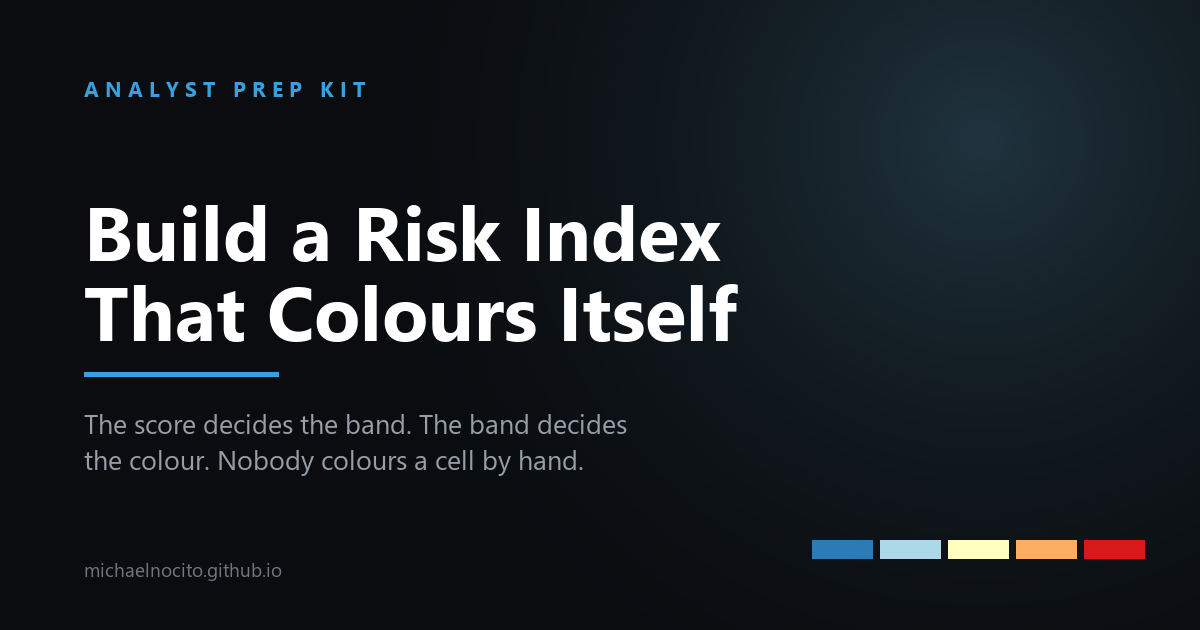
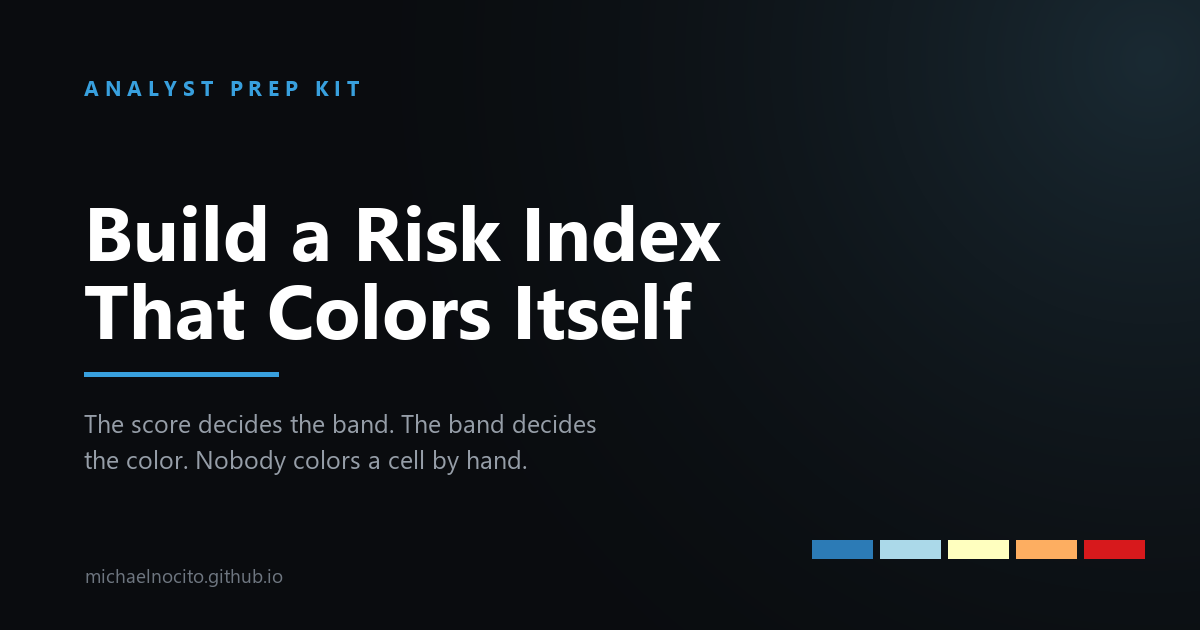
Spell color the American way in the risk index guide
The guide, its card on the guides index, and the social image all used the
British spelling. Fixed everywhere except the Harrower and Brewer citation,
where the published title keeps its own spelling.

Adds tools/make-social-card.py so the 1200x630 card can be rebuilt instead of
hand-edited.

diff --git a/guides/build-a-risk-index/index.html b/guides/build-a-risk-index/index.html
@@ -11,11 +11,11 @@
 </script>
 <meta charset="utf-8">
 <meta name="viewport" content="width=device-width, initial-scale=1">
-<title>Build a Risk Index That Colours Itself — Analyst Prep Kit</title>
-<meta name="description" content="Scored spreadsheets drift because the rule lives in the formatting instead of in a column. Beginner guide to building a composite index in Excel where the score decides the band, the band decides the colour, and one edit updates the whole workbook. Free template included.">
+<title>Build a Risk Index That Colors Itself — Analyst Prep Kit</title>
+<meta name="description" content="Scored spreadsheets drift because the rule lives in the formatting instead of in a column. Beginner guide to building a composite index in Excel where the score decides the band, the band decides the color, and one edit updates the whole workbook. Free template included.">
 <link rel="canonical" href="https://michaelnocito.github.io/analyst-prep-kit/guides/build-a-risk-index/">
-<meta property="og:title" content="Build a Risk Index That Colours Itself">
-<meta property="og:description" content="Two rows with the same score, two different colours. The fix is to move the rule out of the formatting and into a column.">
+<meta property="og:title" content="Build a Risk Index That Colors Itself">
+<meta property="og:description" content="Two rows with the same score, two different colors. The fix is to move the rule out of the formatting and into a column.">
 <meta property="og:type" content="article">
 <meta property="og:image" content="https://michaelnocito.github.io/analyst-prep-kit/assets/social/build-a-risk-index.png">
 <meta property="og:url" content="https://michaelnocito.github.io/analyst-prep-kit/guides/build-a-risk-index/">
@@ -59,8 +59,8 @@
 {
   "@context": "https://schema.org",
   "@type": "Article",
-  "headline": "Build a Risk Index That Colours Itself",
-  "description": "Scored spreadsheets drift because the rule lives in the formatting instead of in a column. Beginner guide to building a composite index in Excel where the score decides the band, the band decides the colour, and one edit updates the whole workbook.",
+  "headline": "Build a Risk Index That Colors Itself",
+  "description": "Scored spreadsheets drift because the rule lives in the formatting instead of in a column. Beginner guide to building a composite index in Excel where the score decides the band, the band decides the color, and one edit updates the whole workbook.",
   "url": "https://michaelnocito.github.io/analyst-prep-kit/guides/build-a-risk-index/",
   "mainEntityOfPage": {
     "@type": "WebPage",
@@ -101,7 +101,7 @@
     {
       "@type": "ListItem",
       "position": 3,
-      "name": "Build a Risk Index That Colours Itself",
+      "name": "Build a Risk Index That Colors Itself",
       "item": "https://michaelnocito.github.io/analyst-prep-kit/guides/build-a-risk-index/"
     }
   ]
@@ -112,52 +112,52 @@
 <body>
 <main>
   <p class="crumb"><a href="../../">← All Kits</a> · <a href="../data-driven-thresholds/">Data-Driven Thresholds</a> · <a href="../defining-metrics/">Defining Metrics</a></p>
-  <h1>Build a Risk Index That Colours Itself</h1>
-  <p class="meta">Because two rows with the same score should never be two different colours · Part of the <a href="../../">Analyst Prep Kit</a></p>
+  <h1>Build a Risk Index That Colors Itself</h1>
+  <p class="meta">Because two rows with the same score should never be two different colors · Part of the <a href="../../">Analyst Prep Kit</a></p>
 
-  <p>When this workbook is finished, you can change one number and watch the whole thing follow. Move a cut-off from 65 to 70 and every row re-bands, every fill recolours, every count updates, and the legend still matches the map. Nobody can colour a cell by hand, because no cell has a colour of its own. That is the whole trick, and it takes about twenty minutes to build.</p>
+  <p>When this workbook is finished, you can change one number and watch the whole thing follow. Move a cut-off from 65 to 70 and every row re-bands, every fill recolors, every count updates, and the legend still matches the map. Nobody can color a cell by hand, because no cell has a color of its own. That is the whole trick, and it takes about twenty minutes to build.</p>
 
-  <p>The example here is a security risk index across twenty sites. The same shape works for vendor scoring, lead scoring, incident triage, or any list where a number has to turn into a label and a colour.</p>
+  <p>The example here is a security risk index across twenty sites. The same shape works for vendor scoring, lead scoring, incident triage, or any list where a number has to turn into a label and a color.</p>
 
   <div class="toc">
     <strong>What's here</strong>
     <ol>
       <li>The fault, and where it actually comes from</li>
-      <li>The chain: score, then band, then colour</li>
+      <li>The chain: score, then band, then color</li>
       <li>Step 1: weights in one row</li>
       <li>Step 2: cut-offs in one table</li>
       <li>Step 3: look the band up, never type it</li>
-      <li>Step 4: let the colour follow the band</li>
+      <li>Step 4: let the color follow the band</li>
       <li>Step 5: two checks that catch the rest</li>
       <li>Step 6: the change log</li>
-      <li>Choosing the five colours</li>
+      <li>Choosing the five colors</li>
       <li>Download the workbook</li>
       <li>References</li>
     </ol>
   </div>
 
   <h2>The fault, and where it actually comes from</h2>
-  <p>You have met this file. A scored list, coloured by hand, that nobody quite trusts any more. Look closely and the same faults turn up every time:</p>
+  <p>You have met this file. A scored list, colored by hand, that nobody quite trusts any more. Look closely and the same faults turn up every time:</p>
   <ul>
     <li>Two rows score 61.4. One is amber, one is yellow.</li>
     <li>The same band is drawn in two shades, because two people picked from the palette on two different days.</li>
-    <li>A row sits below the cut-off and is coloured red anyway, because somebody knew that site was a problem.</li>
+    <li>A row sits below the cut-off and is colored red anyway, because somebody knew that site was a problem.</li>
     <li>A score lands exactly on 65, which appears in two bands, so the answer depends on who typed it.</li>
     <li>One row has no band at all. It quietly drops out of every count.</li>
   </ul>
-  <p>These look like five separate mistakes. They are one mistake, five times. <strong>The rule lives in the formatting instead of in a column.</strong> A colour is not a value you can test. You cannot write a formula that asks "is this row the right shade of amber," so nothing checks it, and it drifts.</p>
-  <div class="note"><strong>The test:</strong> can you sort by band? If the band is only a colour, you cannot sort it, count it, or filter it, and neither can anybody else. That is the tell.</div>
+  <p>These look like five separate mistakes. They are one mistake, five times. <strong>The rule lives in the formatting instead of in a column.</strong> A color is not a value you can test. You cannot write a formula that asks "is this row the right shade of amber," so nothing checks it, and it drifts.</p>
+  <div class="note"><strong>The test:</strong> can you sort by band? If the band is only a color, you cannot sort it, count it, or filter it, and neither can anybody else. That is the tell.</div>
 
-  <h2>The chain: score, then band, then colour</h2>
+  <h2>The chain: score, then band, then color</h2>
   <p>Everything below is one idea applied three times. Each thing is derived from the thing before it, and only the first one is typed.</p>
   <table>
     <tr><th>Layer</th><th>Where it lives</th><th>Who decides it</th></tr>
     <tr><td>Sub-scores</td><td>Four columns, one per category</td><td>Your source data. Typed once.</td></tr>
     <tr><td>Composite score</td><td>A formula, from the sub-scores and the weights</td><td>The weights row</td></tr>
     <tr><td>Band</td><td>A formula, from the score</td><td>The cut-off table</td></tr>
-    <tr><td>Colour</td><td>A conditional format, from the band</td><td>The band column</td></tr>
+    <tr><td>Color</td><td>A conditional format, from the band</td><td>The band column</td></tr>
   </table>
-  <p>Read that bottom-up and you get the promise: change the cut-off table, and the colours move. There is no step where a human picks a fill.</p>
+  <p>Read that bottom-up and you get the promise: change the cut-off table, and the colors move. There is no step where a human picks a fill.</p>
 
   <div class="step">
     <h2>Step 1: weights in one row</h2>
@@ -194,12 +194,12 @@
   </div>
 
   <div class="step">
-    <h2>Step 4: let the colour follow the band</h2>
+    <h2>Step 4: let the color follow the band</h2>
     <p>Select the whole data area, columns and all, then add one conditional formatting rule per band using a formula rule:</p>
     <pre><code>=$J6="Severe"</code></pre>
-    <p>The single dollar sign is the entire mechanism. <code>$J</code> locks the column, so every cell across the row asks the same question. The bare <code>6</code> stays relative, so row 7 asks about <code>$J7</code>, row 8 about <code>$J8</code>, and so on down. One rule colours a whole row, and twenty rows need no extra work.</p>
-    <p>Repeat for the other four bands. Five rules, five fills, and that is every colour in the workbook. There is no sixth place a colour can come from, which is exactly why the two-ambers problem cannot happen again.</p>
-    <p>Anchor the rule to the row that starts your data. Write it while sitting on row 6 and the reference is <code>$J6</code>. Write it while sitting somewhere else and every row will be off by the difference, which looks like the colours slipped by one.</p>
+    <p>The single dollar sign is the entire mechanism. <code>$J</code> locks the column, so every cell across the row asks the same question. The bare <code>6</code> stays relative, so row 7 asks about <code>$J7</code>, row 8 about <code>$J8</code>, and so on down. One rule colors a whole row, and twenty rows need no extra work.</p>
+    <p>Repeat for the other four bands. Five rules, five fills, and that is every color in the workbook. There is no sixth place a color can come from, which is exactly why the two-ambers problem cannot happen again.</p>
+    <p>Anchor the rule to the row that starts your data. Write it while sitting on row 6 and the reference is <code>$J6</code>. Write it while sitting somewhere else and every row will be off by the difference, which looks like the colors slipped by one.</p>
   </div>
 
   <div class="step">
@@ -219,8 +219,8 @@
     <p>One entry type matters more than the others. When two source files disagree, the change log is where you say so rather than quietly picking a winner. "This site appears on two maps with two scores, flagged for your decision" is a better line than any silent fix, because <a href="../documenting-data-limitations/">which source wins is a policy call, not a spreadsheet one</a>.</p>
   </div>
 
-  <h2>Choosing the five colours</h2>
-  <p>The palette in the template is the five-class RdYlBu scheme from ColorBrewer, a tool built from map-design research by Cynthia Brewer and Mark Harrower (Harrower &amp; Brewer, 2003). It is listed as colourblind safe, which matters more here than it looks: red and green are the two colours a large minority of readers cannot reliably separate, and risk maps reach for exactly that pair.</p>
+  <h2>Choosing the five colors</h2>
+  <p>The palette in the template is the five-class RdYlBu scheme from ColorBrewer, a tool built from map-design research by Cynthia Brewer and Mark Harrower (Harrower &amp; Brewer, 2003). It is listed as colorblind safe, which matters more here than it looks: red and green are the two colors a large minority of readers cannot reliably separate, and risk maps reach for exactly that pair.</p>
   <table class="swatch">
     <tr><th>Band</th><th>Fill</th><th>Text</th></tr>
     <tr><td>Low</td><td style="background:#2C7BB6;color:#fff">#2C7BB6</td><td style="color:#fff;background:#2C7BB6">white</td></tr>
@@ -229,7 +229,7 @@
     <tr><td>High</td><td style="background:#FDAE61">#FDAE61</td><td>dark</td></tr>
     <tr><td>Severe</td><td style="background:#D7191C;color:#fff">#D7191C</td><td style="color:#fff;background:#D7191C">white</td></tr>
   </table>
-  <p>Two rules go with it. Severity must run in one direction, so a reader learns the order once and never re-learns it. And the score stays visible in its own column next to the colour, because colour is a weak channel for judging how much bigger one value is than another. Position and length beat it decisively, a result Cleveland and McGill measured directly (Cleveland &amp; McGill, 1984). The colour is for scanning the map. The number is for answering the question.</p>
+  <p>Two rules go with it. Severity must run in one direction, so a reader learns the order once and never re-learns it. And the score stays visible in its own column next to the color, because color is a weak channel for judging how much bigger one value is than another. Position and length beat it decisively, a result Cleveland and McGill measured directly (Cleveland &amp; McGill, 1984). The color is for scanning the map. The number is for answering the question.</p>
 
   <div class="cta">
     <strong>Download the workbook.</strong>

diff --git a/guides/index.html b/guides/index.html
@@ -102,8 +102,8 @@
       <p class="d">Click by click: shape the data, write the one calculation a rate needs, build four sheets that each make a point, assemble the dashboard, sequence a three-point story, and publish it free.</p>
     </a>
     <a class="gcard" href="build-a-risk-index/">
-      <p class="t">Build a Risk Index That Colours Itself</p>
-      <p class="d">Scored spreadsheets drift because the rule lives in the formatting instead of in a column. Weights in one row, cut-offs in one table, the band looked up, the colour following the band. Free workbook included.</p>
+      <p class="t">Build a Risk Index That Colors Itself</p>
+      <p class="d">Scored spreadsheets drift because the rule lives in the formatting instead of in a column. Weights in one row, cut-offs in one table, the band looked up, the color following the band. Free workbook included.</p>
     </a>
     <a class="gcard" href="tableau-concepts/">
       <p class="t">Tableau Concepts, Start to Finish</p>

diff --git a/tools/make-social-card.py b/tools/make-social-card.py
@@ -1,0 +1,100 @@
+"""Regenerate a 1200x630 social card for a guide.
+
+Matches the existing assets/social/*.png design: dark ground with an upper-right
+glow, blue kicker, two-line bold title, blue rule, two-line subtitle, the site
+URL, and the five-class RdYlBu swatch strip.
+
+Usage:
+  python tools/make-social-card.py
+
+Edit CARD below, run it, and check the PNG before committing.
+"""
+
+from PIL import Image, ImageDraw, ImageFont
+import math
+
+OUT = "assets/social/build-a-risk-index.png"
+
+CARD = {
+    "kicker": "ANALYST PREP KIT",
+    "title": ["Build a Risk Index", "That Colors Itself"],
+    "subtitle": [
+        "The score decides the band. The band decides",
+        "the color. Nobody colors a cell by hand.",
+    ],
+    "url": "michaelnocito.github.io",
+}
+
+W, H = 1200, 630
+BG = (10, 12, 15)
+GLOW = (26, 42, 51)
+GLOW_AT = (1150, 60)
+GLOW_R = 900
+BLUE = (56, 160, 222)
+WHITE = (255, 255, 255)
+SUBTLE = (150, 158, 168)
+FAINT = (110, 118, 128)
+SWATCHES = [(44, 123, 182), (171, 217, 233), (255, 255, 191), (253, 174, 97), (215, 25, 28)]
+
+FONT_BOLD = "C:/Windows/Fonts/segoeuib.ttf"
+FONT_REG = "C:/Windows/Fonts/segoeui.ttf"
+
+MARGIN = 84
+
+
+def background():
+    im = Image.new("RGB", (W, H), BG)
+    px = im.load()
+    gx, gy = GLOW_AT
+    for y in range(H):
+        for x in range(W):
+            d = math.hypot(x - gx, y - gy) / GLOW_R
+            f = max(0.0, 1.0 - d) ** 2
+            px[x, y] = tuple(int(BG[i] + (GLOW[i] - BG[i]) * f) for i in range(3))
+    return im
+
+
+def tracked(draw, xy, text, font, fill, spacing):
+    """Draw text with extra letter spacing, the way the kicker is set."""
+    x, y = xy
+    for ch in text:
+        draw.text((x, y), ch, font=font, fill=fill)
+        x += draw.textlength(ch, font=font) + spacing
+
+
+def build():
+    im = background()
+    d = ImageDraw.Draw(im)
+
+    kicker = ImageFont.truetype(FONT_BOLD, 21)
+    title = ImageFont.truetype(FONT_BOLD, 76)
+    sub = ImageFont.truetype(FONT_REG, 25)
+    url = ImageFont.truetype(FONT_REG, 19)
+
+    tracked(d, (MARGIN, 73), CARD["kicker"], kicker, BLUE, 5.6)
+
+    y = 178
+    for line in CARD["title"]:
+        d.text((MARGIN, y), line, font=title, fill=WHITE)
+        y += 78
+
+    d.rectangle([MARGIN, 372, MARGIN + 194, 376], fill=BLUE)
+
+    y = 406
+    for line in CARD["subtitle"]:
+        d.text((MARGIN, y), line, font=sub, fill=SUBTLE)
+        y += 36
+
+    d.text((MARGIN + 1, 562), CARD["url"], font=url, fill=FAINT)
+
+    x = 812
+    for c in SWATCHES:
+        d.rectangle([x, 540, x + 60, 558], fill=c)
+        x += 68
+
+    im.save(OUT)
+    print("wrote", OUT, im.size)
+
+
+if __name__ == "__main__":
+    build()
